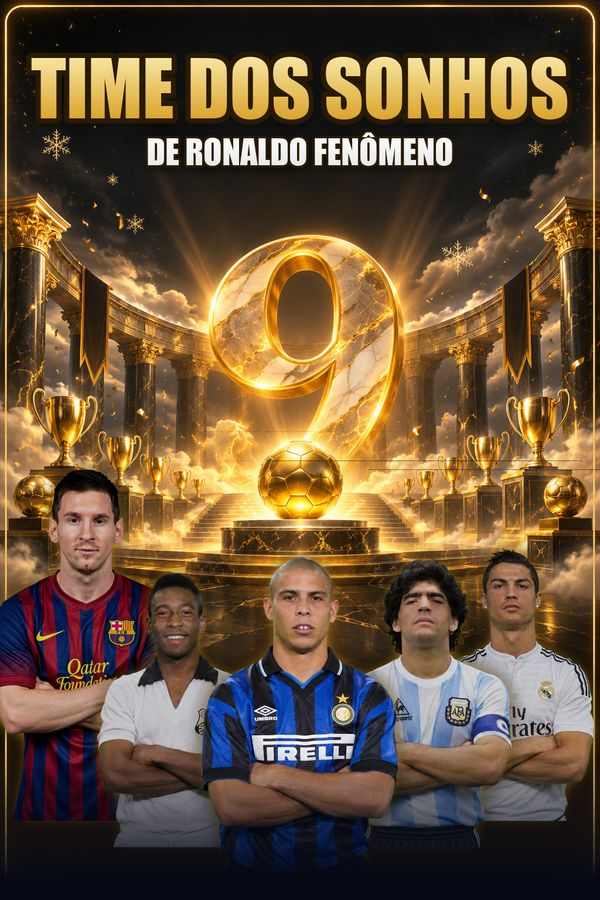
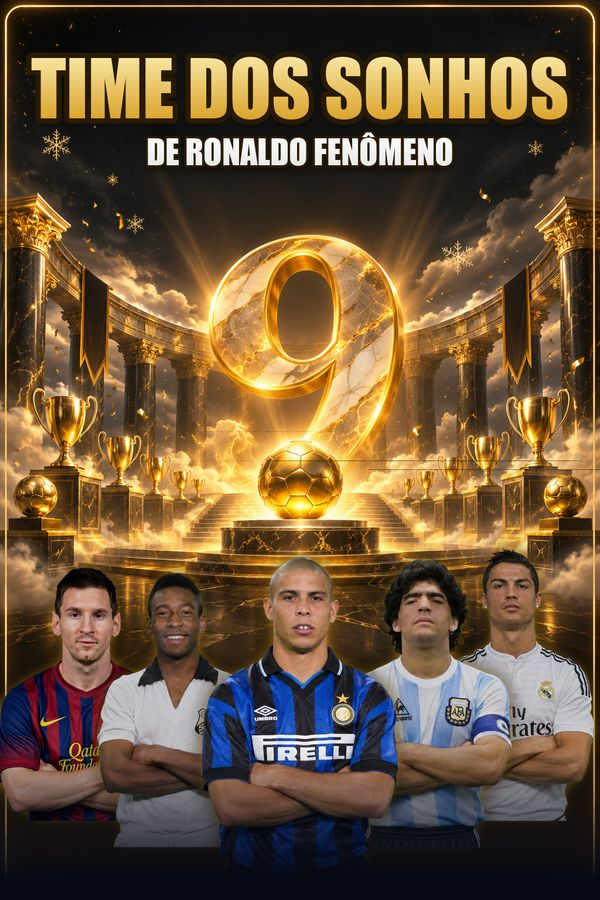
atualiza o jogo

Changed region(s): [[0.0, 0.4978, 0.27, 0.9333]]

diff --git a/index.html b/index.html
@@ -5230,7 +5230,7 @@ function abrirSeletorCor(inp){
 }
 document.addEventListener("click",ev=>{const i=ev.target.closest&&ev.target.closest('input[type="color"]');if(!i)return;ev.preventDefault();abrirSeletorCor(i)},true);
 /* app instalado: confere se o site tem versão nova e recarrega (o número é trocado pelo publicar-site.sh) */
-const VERSAO="1795437647";
+const VERSAO="1795438048";
 function versaoOk(){if(CARGA.verOk)return;CARGA.verOk=true;if(abertura&&CARGA.intro)render()} // 02/11: a logo só aparece depois de conferir a versão (sem logo dobrada)
 function checarVersao(){
   if(VERSAO.startsWith("__")||!/^https?:/.test(location.protocol)){versaoOk();return}
